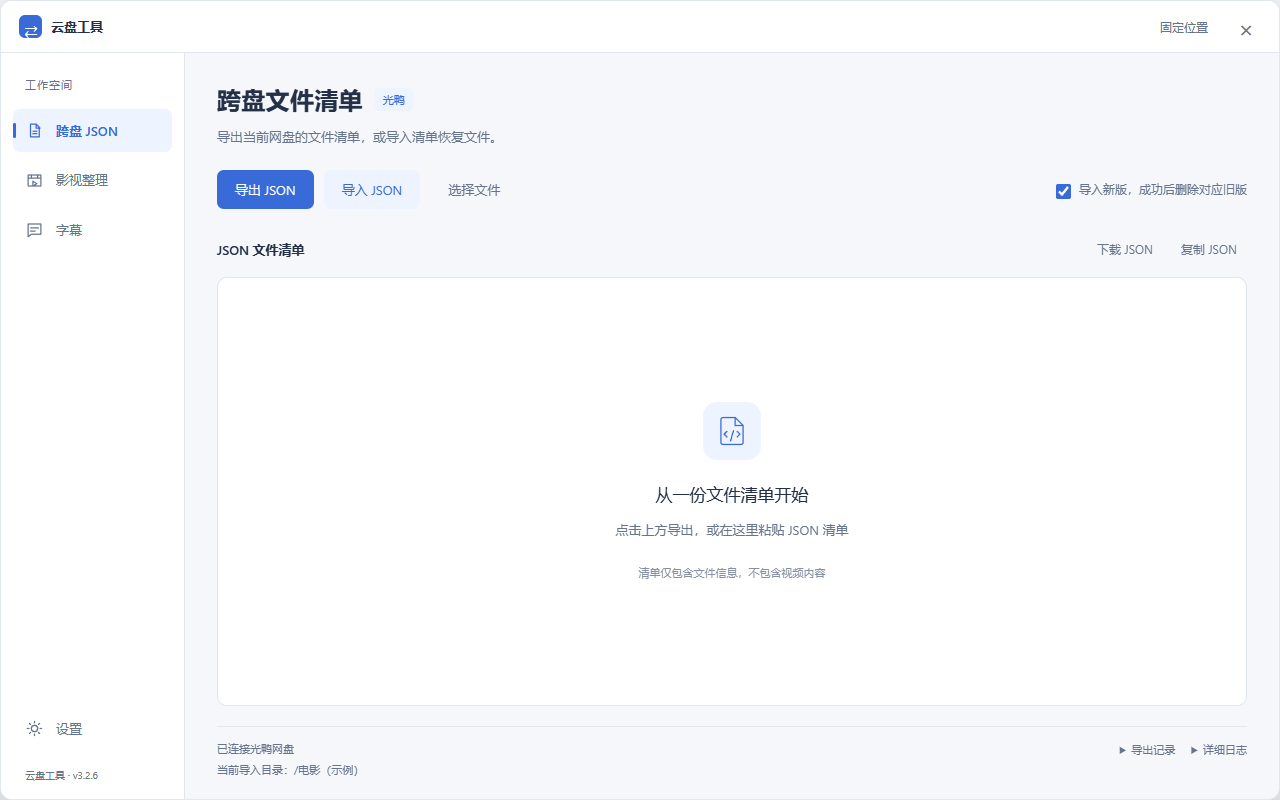
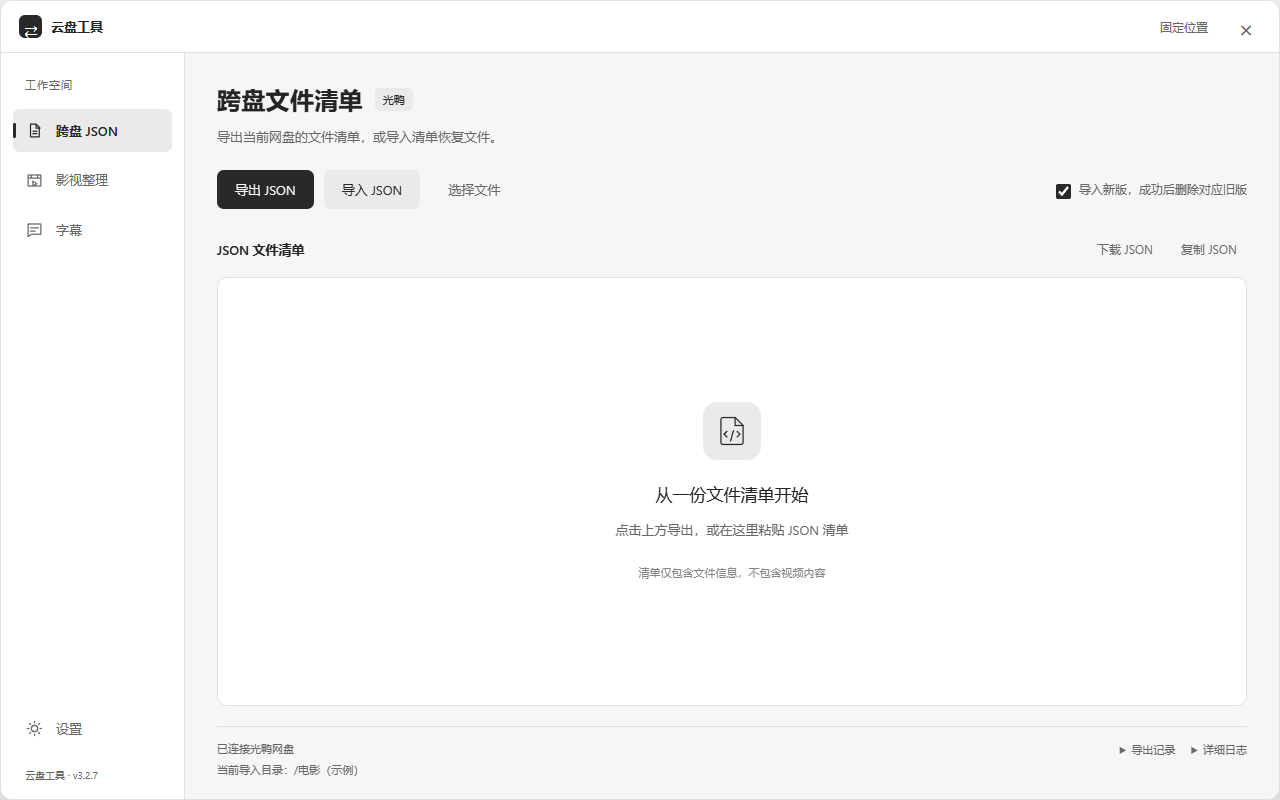
Use monochrome palettes for light and dark workspace themes

diff --git a/cloud-media-organizer-v3.user.js b/cloud-media-organizer-v3.user.js
@@ -1,7 +1,7 @@
 // ==UserScript==
 // @name         云盘媒体整理工具 v3.0（重构版）
 // @namespace    local.cloud-media-organizer
-// @version      3.2.6
+// @version      3.2.7
 // @description  百度/123/光鸭跨盘清单，123/光鸭影视整理、字幕搜索与核验上传
 // @match        https://pan.baidu.com/*
 // @match        https://yun.baidu.com/*
@@ -40,7 +40,7 @@
 (() => {
     'use strict';
 
-    const VERSION = '3.2.6';
+    const VERSION = '3.2.7';
     let jsonTaskStopped = false;
     const page = typeof unsafeWindow === 'undefined' ? window : unsafeWindow;
     const nativeFetch = page.fetch.bind(page);
@@ -421,6 +421,7 @@
             root.innerHTML = `<style>
 *{box-sizing:border-box}
 :host{font:13px/1.65 "Segoe UI","Microsoft YaHei",sans-serif;color:var(--text);color-scheme:var(--scheme);-webkit-font-smoothing:antialiased}
+::selection{background:var(--accent);color:var(--button-text)}
 [hidden]{display:none!important}button,input,select,textarea{font:inherit;color:var(--text)}
 button{cursor:pointer;border:1px solid var(--border);border-radius:7px;padding:8px 14px;background:var(--surface);line-height:1.5;transition:background .15s,border-color .15s}
 button:hover:not(:disabled){background:var(--tint);border-color:var(--accent)}button:disabled{opacity:.4;cursor:not-allowed}
@@ -432,7 +433,7 @@ label:has(>input[type=checkbox]){display:flex;align-items:flex-start;gap:8px}inp
 summary{cursor:pointer;overflow-wrap:anywhere}details[open]>summary{margin-bottom:12px}
 .workspace-overlay{position:fixed;inset:0;pointer-events:none}.box{position:fixed;display:flex;flex-direction:column;pointer-events:auto;width:1280px;height:800px;overflow:hidden;border:1px solid var(--border);border-radius:12px;background:var(--panel);box-shadow:0 24px 80px #0004;container-type:inline-size;outline:none}
 .workspace-header{display:flex;align-items:center;justify-content:space-between;gap:12px;height:52px;flex-shrink:0;padding:0 18px;cursor:grab;touch-action:none;user-select:none;background:var(--surface);border-bottom:1px solid var(--border)}
-.workspace-header h2{font-size:13px;font-weight:600;margin:0;display:flex;align-items:center;gap:9px}.workspace-header h2::before{content:'⇄';display:grid;place-items:center;width:23px;height:23px;border-radius:6px;background:var(--accent);color:#fff;font-size:17px;font-weight:400}
+.workspace-header h2{font-size:13px;font-weight:600;margin:0;display:flex;align-items:center;gap:9px}.workspace-header h2::before{content:'⇄';display:grid;place-items:center;width:23px;height:23px;border-radius:6px;background:var(--accent);color:var(--button-text);font-size:17px;font-weight:400}
 .workspace-header p{display:none}.workspace-header.dragging{cursor:grabbing}.workspace-header.pinned{cursor:default}.workspace-window-actions{display:flex;align-items:center;gap:12px}
 #pinWorkspace,#closeWorkspace{background:transparent;border-color:transparent;color:var(--muted);padding:5px 10px;font-size:12px}#pinWorkspace[aria-pressed=true]{color:var(--accent);background:var(--tint)}#closeWorkspace{width:30px;height:30px;padding:0;font-size:24px;line-height:1}
 .workspace-frame{display:flex;flex:1;min-height:0;min-width:0}.workspace-navigation{width:184px;flex-shrink:0;display:flex;flex-direction:column;background:var(--surface);padding:22px 12px 16px;border-right:1px solid var(--border)}
@@ -447,7 +448,7 @@ summary{cursor:pointer;overflow-wrap:anywhere}details[open]>summary{margin-botto
 .tool-context{font-size:11px;line-height:23px;padding:0 8px;border-radius:5px;background:var(--tint);color:var(--accent);font-weight:400;letter-spacing:0}
 .tool-commandbar{display:flex;align-items:center;flex-wrap:wrap;gap:12px;margin:22px 0 24px}.panel-actions{display:flex;flex-wrap:wrap;gap:10px;margin:12px 0}
 .tool-commandbar .panel-actions{margin:0;gap:10px}.tool-commandbar button{padding:9px 17px;min-height:38px}
-#generate,#exportManifest,#scanMedia,#recheckSubtitles,#fillSubtitles,#runMedia{background:var(--accent);border-color:transparent;color:#fff}
+#generate,#exportManifest,#scanMedia,#recheckSubtitles,#fillSubtitles,#runMedia{background:var(--accent);border-color:transparent;color:var(--button-text)}
 #transfer,#start{background:var(--tint);border-color:transparent;color:var(--accent)}#chooseManifest,#chooseJsonFile{border-color:transparent;background:transparent;color:var(--muted)}
 .tool-import-options{margin-left:auto;max-width:320px;color:var(--muted);font-size:12px}.tool-import-options .export-options,.tool-import-options label{margin:0}.panel-actions:empty,.tool-import-options:not(:has(input,select,button)){display:none}
 .tool-layout{flex:1;min-width:0;min-height:auto}.tool-main{min-width:0}.tool-list-heading{display:flex;align-items:center;justify-content:space-between;gap:16px;min-height:32px;margin-bottom:12px}
@@ -731,8 +732,8 @@ summary{cursor:pointer;overflow-wrap:anywhere}details[open]>summary{margin-botto
                 }
             }
             host.style.cssText = baseStyle + (dark
-                ? ';--scheme:dark;--panel:#13171e;--surface:#1a2029;--text:#e7ecf5;--muted:#a0adbf;--field:#1a2029;--border:#2b3544;--accent:#517fe8;--tint:#202e49;--button:#517fe8;--button-text:#fff'
-                : ';--scheme:light;--panel:#f5f7fb;--surface:#fff;--text:#233047;--muted:#66758b;--field:#fff;--border:#e1e7ef;--accent:#386ad8;--tint:#edf3ff;--button:#386ad8;--button-text:#fff');
+                ? ';--scheme:dark;--panel:#181818;--surface:#222;--text:#ededed;--muted:#aaa;--field:#222;--border:#383838;--accent:#e2e2e2;--tint:#303030;--button:#e2e2e2;--button-text:#181818'
+                : ';--scheme:light;--panel:#f6f6f6;--surface:#fff;--text:#242424;--muted:#686868;--field:#fff;--border:#e1e1e1;--accent:#292929;--tint:#eaeaea;--button:#292929;--button-text:#fff');
         }
         select.onchange = () => {
             GM_setValue('cross-drive-theme', select.value);

diff --git a/src/panel.js b/src/panel.js
@@ -144,6 +144,7 @@
             root.innerHTML = `<style>
 *{box-sizing:border-box}
 :host{font:13px/1.65 "Segoe UI","Microsoft YaHei",sans-serif;color:var(--text);color-scheme:var(--scheme);-webkit-font-smoothing:antialiased}
+::selection{background:var(--accent);color:var(--button-text)}
 [hidden]{display:none!important}button,input,select,textarea{font:inherit;color:var(--text)}
 button{cursor:pointer;border:1px solid var(--border);border-radius:7px;padding:8px 14px;background:var(--surface);line-height:1.5;transition:background .15s,border-color .15s}
 button:hover:not(:disabled){background:var(--tint);border-color:var(--accent)}button:disabled{opacity:.4;cursor:not-allowed}
@@ -155,7 +156,7 @@ label:has(>input[type=checkbox]){display:flex;align-items:flex-start;gap:8px}inp
 summary{cursor:pointer;overflow-wrap:anywhere}details[open]>summary{margin-bottom:12px}
 .workspace-overlay{position:fixed;inset:0;pointer-events:none}.box{position:fixed;display:flex;flex-direction:column;pointer-events:auto;width:1280px;height:800px;overflow:hidden;border:1px solid var(--border);border-radius:12px;background:var(--panel);box-shadow:0 24px 80px #0004;container-type:inline-size;outline:none}
 .workspace-header{display:flex;align-items:center;justify-content:space-between;gap:12px;height:52px;flex-shrink:0;padding:0 18px;cursor:grab;touch-action:none;user-select:none;background:var(--surface);border-bottom:1px solid var(--border)}
-.workspace-header h2{font-size:13px;font-weight:600;margin:0;display:flex;align-items:center;gap:9px}.workspace-header h2::before{content:'⇄';display:grid;place-items:center;width:23px;height:23px;border-radius:6px;background:var(--accent);color:#fff;font-size:17px;font-weight:400}
+.workspace-header h2{font-size:13px;font-weight:600;margin:0;display:flex;align-items:center;gap:9px}.workspace-header h2::before{content:'⇄';display:grid;place-items:center;width:23px;height:23px;border-radius:6px;background:var(--accent);color:var(--button-text);font-size:17px;font-weight:400}
 .workspace-header p{display:none}.workspace-header.dragging{cursor:grabbing}.workspace-header.pinned{cursor:default}.workspace-window-actions{display:flex;align-items:center;gap:12px}
 #pinWorkspace,#closeWorkspace{background:transparent;border-color:transparent;color:var(--muted);padding:5px 10px;font-size:12px}#pinWorkspace[aria-pressed=true]{color:var(--accent);background:var(--tint)}#closeWorkspace{width:30px;height:30px;padding:0;font-size:24px;line-height:1}
 .workspace-frame{display:flex;flex:1;min-height:0;min-width:0}.workspace-navigation{width:184px;flex-shrink:0;display:flex;flex-direction:column;background:var(--surface);padding:22px 12px 16px;border-right:1px solid var(--border)}
@@ -170,7 +171,7 @@ summary{cursor:pointer;overflow-wrap:anywhere}details[open]>summary{margin-botto
 .tool-context{font-size:11px;line-height:23px;padding:0 8px;border-radius:5px;background:var(--tint);color:var(--accent);font-weight:400;letter-spacing:0}
 .tool-commandbar{display:flex;align-items:center;flex-wrap:wrap;gap:12px;margin:22px 0 24px}.panel-actions{display:flex;flex-wrap:wrap;gap:10px;margin:12px 0}
 .tool-commandbar .panel-actions{margin:0;gap:10px}.tool-commandbar button{padding:9px 17px;min-height:38px}
-#generate,#exportManifest,#scanMedia,#recheckSubtitles,#fillSubtitles,#runMedia{background:var(--accent);border-color:transparent;color:#fff}
+#generate,#exportManifest,#scanMedia,#recheckSubtitles,#fillSubtitles,#runMedia{background:var(--accent);border-color:transparent;color:var(--button-text)}
 #transfer,#start{background:var(--tint);border-color:transparent;color:var(--accent)}#chooseManifest,#chooseJsonFile{border-color:transparent;background:transparent;color:var(--muted)}
 .tool-import-options{margin-left:auto;max-width:320px;color:var(--muted);font-size:12px}.tool-import-options .export-options,.tool-import-options label{margin:0}.panel-actions:empty,.tool-import-options:not(:has(input,select,button)){display:none}
 .tool-layout{flex:1;min-width:0;min-height:auto}.tool-main{min-width:0}.tool-list-heading{display:flex;align-items:center;justify-content:space-between;gap:16px;min-height:32px;margin-bottom:12px}
@@ -454,8 +455,8 @@ summary{cursor:pointer;overflow-wrap:anywhere}details[open]>summary{margin-botto
                 }
             }
             host.style.cssText = baseStyle + (dark
-                ? ';--scheme:dark;--panel:#13171e;--surface:#1a2029;--text:#e7ecf5;--muted:#a0adbf;--field:#1a2029;--border:#2b3544;--accent:#517fe8;--tint:#202e49;--button:#517fe8;--button-text:#fff'
-                : ';--scheme:light;--panel:#f5f7fb;--surface:#fff;--text:#233047;--muted:#66758b;--field:#fff;--border:#e1e7ef;--accent:#386ad8;--tint:#edf3ff;--button:#386ad8;--button-text:#fff');
+                ? ';--scheme:dark;--panel:#181818;--surface:#222;--text:#ededed;--muted:#aaa;--field:#222;--border:#383838;--accent:#e2e2e2;--tint:#303030;--button:#e2e2e2;--button-text:#181818'
+                : ';--scheme:light;--panel:#f6f6f6;--surface:#fff;--text:#242424;--muted:#686868;--field:#fff;--border:#e1e1e1;--accent:#292929;--tint:#eaeaea;--button:#292929;--button-text:#fff');
         }
         select.onchange = () => {
             GM_setValue('cross-drive-theme', select.value);

diff --git a/src/core.js b/src/core.js
@@ -1,4 +1,4 @@
-    const VERSION = '3.2.6';
+    const VERSION = '3.2.7';
     let jsonTaskStopped = false;
     const page = typeof unsafeWindow === 'undefined' ? window : unsafeWindow;
     const nativeFetch = page.fetch.bind(page);

diff --git a/README.md b/README.md
@@ -1,6 +1,6 @@
 # 云盘媒体整理工具
 
-当前版本 **3.2.6**。支持百度、123、光鸭网盘的 JSON 清单导入导出，以及 123、光鸭的影视整理和字幕补齐。
+当前版本 **3.2.7**。支持百度、123、光鸭网盘的 JSON 清单导入导出，以及 123、光鸭的影视整理和字幕补齐。
 
 [安装或更新脚本](https://raw.githubusercontent.com/Yanshov/cloud-media-organizer/main/cloud-media-organizer-v3.user.js) · [变更说明](CHANGELOG.md) · [开发与验证](docs/DEVELOPMENT.md)
 
@@ -8,7 +8,7 @@
 
 页面以 1280×800 为标准排布：左侧固定功能导航，右侧集中展示当前工作，目录、进度和日志入口放在底部状态栏。窗口尺寸与外观移入设置，版本显示在导航底部。JSON 编辑区自动填满剩余高度，空白时显示使用引导，下载和复制放在编辑区上方。960×600 保留紧凑布局，窄屏改用横向导航。影视与字幕列表每页 4 项，点击展开详情；分页只影响展示，批量任务仍处理全部符合条件的项目。日志、辅助操作和说明默认收起，常规概览尽量不滚动；长详情、设置和小窗口仍可滚动。
 
-[深色界面预览](docs/previews/workspace-dark.png) · [浅色界面预览](docs/previews/workspace-light.png)（实际面板截图，目录为示例数据）
+深浅主题均使用黑白灰，通过明暗和字重区分主要操作与选中项。[深色界面预览](docs/previews/workspace-dark.png) · [浅色界面预览](docs/previews/workspace-light.png)（实际面板截图，目录为示例数据）
 
 ## 安装
 
@@ -16,7 +16,7 @@
 2. 只启用一份本工具。旧版“百度 / 123 / 光鸭 跨盘 JSON”使用不同脚本标识，升级后应停用旧版，避免重复拦截请求。
 3. 刷新网盘网页，打开右下角工具按钮。光鸭和 123 若尚未捕获登录状态，切换一次文件夹。
 
-为直接更新已有 v3 草稿，脚本保留原来的 `@name` 和 `@namespace`；以 `@version 3.2.6` 和工具面板版本为准。密钥在浏览器脚本设置中填写，不写入源码或仓库。
+为直接更新已有 v3 草稿，脚本保留原来的 `@name` 和 `@namespace`；以 `@version 3.2.7` 和工具面板版本为准。密钥在浏览器脚本设置中填写，不写入源码或仓库。
 
 ## 功能范围
 

diff --git a/docs/VALIDATION.md b/docs/VALIDATION.md
@@ -1,6 +1,8 @@
-# 3.2.6 验证记录
+# 3.2.7 验证记录
 
 验证日期：2026-11-18（北京时间）。本地 Node.js v26.13.0。
+
+3.2.7 在深浅两套主题中读取可见元素的文字、背景、边框及焦点颜色，确认均为中性灰阶，并更新实际界面截图。
 
 布局使用实际面板代码及三类工具的真实初始 HTML，在无账号的 Edge 中验证：默认 1280×800 下三个空页面、光鸭 JSON 页面及 13 个合成作品的字幕概览均无横向、纵向溢出；JSON 编辑区与底部状态栏保持不足 40px 间隔。左侧导航和上下键切换、设置选中状态与返回、尺寸和主题控件迁移、JSON 空白引导随程序写入内容隐藏、长作品详情不覆盖底部状态栏均通过。列表分页、四档尺寸、已选尺寸恢复及导入预览正常。小视口限制边界，长内容保留滚动。独立浏览器上下文模拟 100%、125%、150%、200% 显示缩放，按窗口外框截图并检查 PNG 宽高，均为 1280×800（不含阴影），拖动距离正确。未对真实网盘执行任何操作。
 

diff --git a/CHANGELOG.md b/CHANGELOG.md
@@ -1,3 +1,8 @@
+# 3.2.7
+
+- 深浅主题统一为黑白灰，移除蓝色背景和强调色；主要按钮、选中导航、焦点、勾选和文本选区使用明暗对比，保持现有布局与尺寸。
+- 深色主要按钮使用浅灰背景配深色文字，浅色主题使用深灰背景配白色文字；同步更新两套实际界面截图。
+
 # 3.2.6
 
 - 窗口改为左侧功能导航、右侧工作区、底部状态栏，移除右侧状态卡片。尺寸、外观统一收进设置；保持默认 1280×800 与显示缩放补偿。
